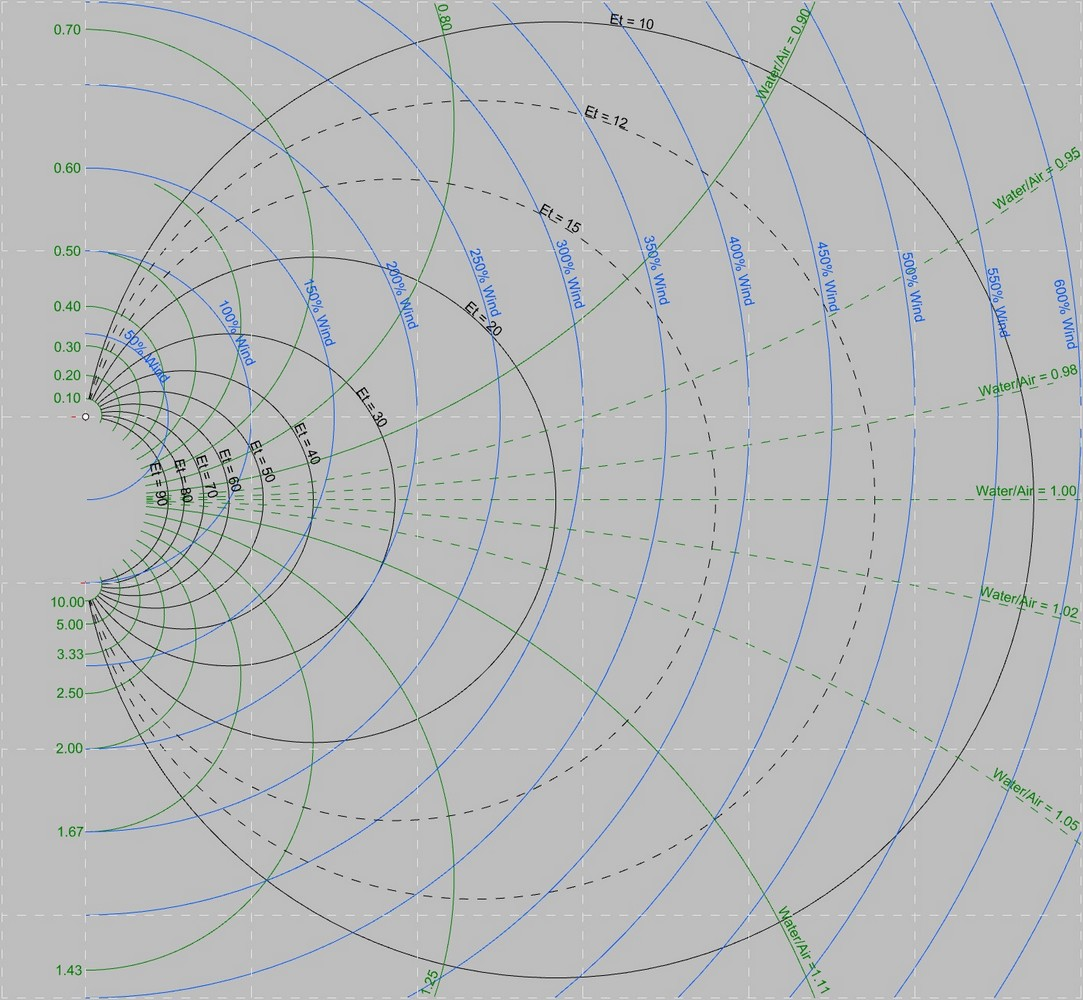
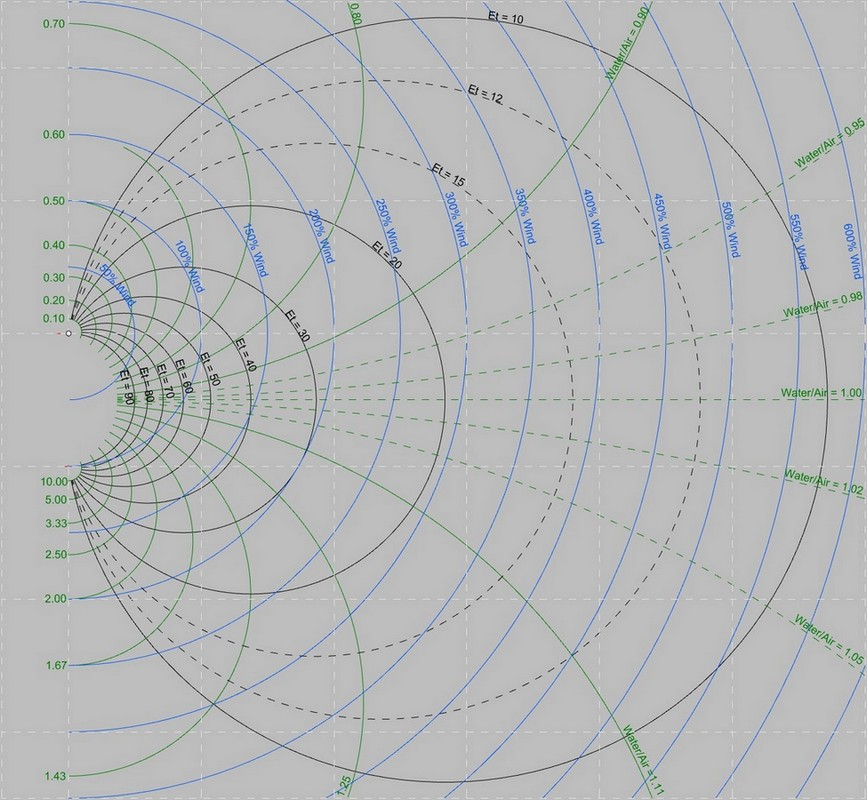
add label  table  image  graph size

Changed region(s): [[0.436, 0.3125, 0.4671, 0.3438]]

diff --git a/model.py b/model.py
@@ -15,13 +15,13 @@ RHO_WATER = 1025  # kg/m3
 # %% plot data
 COLOR_palette = px.colors.qualitative.Plotly
 
-bckgrd_imge_dim = {
-    "width": 700,
-    "height": 636,
-    "zero_x": 31,
-    "zero_y": 265,
-    "source": "assets\\polar_background_small.png",
-}
+# bckgrd_imge_dim = {
+#     "width": 700,
+#     "height": 636,
+#     "zero_x": 31,
+#     "zero_y": 265,
+#     "source": "assets\\polar_background_small.png",
+# }
 
 data_background = {
     "iso_speed": {
@@ -30,19 +30,19 @@ data_background = {
         "opacity": 0.9,
     },
     "iso_eft": {
-        "step": list(range(90, 0, -10)),
+        "step": [90, 80, 70, 60, 50, 40, 30, 20, 15, 12, 10],
         "color": "black",
         "opacity": 0.08,
     },
 }
 
-# bckgrd_imge_dim = {
-#     "width": 1083,
-#     "height": 1000,
-#     "zero_x": 82,
-#     "zero_y": 416,
-#     "source": "assets\\polar_background.jpeg",
-# }
+bckgrd_imge_dim = {
+    "width": 867,
+    "height": 800,
+    "zero_x": 68,
+    "zero_y": 333,
+    "source": "assets\\polar_background.jpeg",
+}
 
 # %%  Functions
 
@@ -118,10 +118,10 @@ def create_iso_eft(dict_param, position_angle_label=30):
     isoeft_label = []
 
     for s in dict_param["step"]:
-        half_s_rad = np.radians(s) / 2
-        r = (wind_speed / 2) / (np.sin(half_s_rad))
+        s_rad = np.radians(s)
+        r = (wind_speed / 2) / (np.sin(s_rad))
         center_x, center_y = centers(0, -wind_speed, r)
-        angle = np.pi - (half_s_rad)
+        angle = np.pi - (s_rad)
 
         x_label = r * np.cos(np.radians(position_angle_label)) + center_x
         y_label = r * np.sin(np.radians(position_angle_label)) + center_y
@@ -156,9 +156,23 @@ def create_iso_eft(dict_param, position_angle_label=30):
     return isoeft, df_label
 
 
-def create_iso_speed(dict_param):
+def create_iso_speed(dict_param, position_angle_label=30):
     isospeed = []
+    isospeed_label = []
     for s in dict_param["step"]:
+        x_label = s * np.cos(np.radians(position_angle_label))
+        y_label = s * np.sin(np.radians(position_angle_label))
+        label_s = {
+            "x": x_label,
+            "y": y_label,
+            "text": f"{s}% wind",
+            "angle": 90 - position_angle_label,
+            "color": dict_param["color"],
+            "opacity": dict_param["opacity"] + 0.1,
+        }
+
+        isospeed_label.append(label_s)
+
         isospeed.append(
             dict(
                 type="path",
@@ -170,7 +184,8 @@ def create_iso_speed(dict_param):
                 layer="below",
             )
         )
-    return isospeed
+    df_label = pd.DataFrame(isospeed_label)
+    return isospeed, df_label
 
 
 def plot_cases(
@@ -179,24 +194,33 @@ def plot_cases(
     draw_iso_speed=True,
     draw_iso_eft=True,
     add_background_image=False,
+    height_size=800,
 ):
     shape_list = []
 
+    # add shapes
     if draw_iso_speed:
-        shape_list.extend(create_iso_speed(data_background["iso_speed"]))
+        shapes_speed, labels_speed = create_iso_speed(
+            data_background["iso_speed"], position_angle_label=10
+        )
+        shape_list.extend(shapes_speed)
 
     if draw_iso_eft:
-        shapes, labels_eft = create_iso_eft(
+        shapes_eft, labels_eft = create_iso_eft(
             data_background["iso_eft"], position_angle_label=-45
         )
-        shape_list.extend(shapes)
+        shape_list.extend(shapes_eft)
 
     title_cases = ", ".join([fk.name for fk in list_of_cases])
+
+    graph_size = bckgrd_imge_dim["height"] if add_background_image else height_size
     fig = go.Figure(
         layout=go.Layout(
             title=go.layout.Title(text=f"Polar for: {title_cases}"),
-            autosize=False,
-            height=bckgrd_imge_dim["height"],
+            autosize=True,
+            plot_bgcolor="rgba(240,240,240,0.7)",
+            height=graph_size,
+            width=graph_size * 1.1,
             xaxis_range=[-5, 550],
             yaxis_range=[-300, 240],
             xaxis=dict(showgrid=False, visible=False),
@@ -226,15 +250,19 @@ def plot_cases(
         )
 
     if add_background_image:
+        fig.update_layout(
+            width=bckgrd_imge_dim["width"],
+            height=bckgrd_imge_dim["height"],
+        )  # to keep square ratio
         fig.add_layout_image(
             dict(
                 source=bckgrd_imge_dim["source"],
                 xref="x",
                 yref="y",
-                x=-bckgrd_imge_dim["zero_x"],
-                y=bckgrd_imge_dim["zero_y"],
-                sizex=bckgrd_imge_dim["width"] - bckgrd_imge_dim["zero_x"],
-                sizey=bckgrd_imge_dim["height"] - 10,  # TODO why -10?
+                x=-bckgrd_imge_dim["zero_x"] * 0.75,
+                y=bckgrd_imge_dim["zero_y"] * 0.75,
+                sizex=bckgrd_imge_dim["width"] * 0.75,
+                sizey=bckgrd_imge_dim["height"] * 0.75,  # TODO why 0.75?
                 sizing="stretch",
                 xanchor="left",
                 yanchor="top",
@@ -244,6 +272,26 @@ def plot_cases(
         )
 
     # add labels
+
+    if draw_iso_speed:
+        for i, row in labels_speed.iterrows():
+            fig.add_annotation(
+                go.layout.Annotation(
+                    x=row["x"],
+                    y=row["y"],
+                    text=row["text"],
+                    hovertext=row["text"],
+                    # textposition="bottom center"
+                    textangle=row["angle"],
+                    # arrowsize=0.3,
+                    showarrow=False,
+                    font=dict(color=row["color"]),
+                    # for color use font dict
+                    opacity=row["opacity"],
+                    xshift=10,
+                    yshift=5,
+                )
+            )
     if draw_iso_eft:
         for i, row in labels_eft.iterrows():
             fig.add_annotation(
@@ -255,7 +303,7 @@ def plot_cases(
                     # textposition="bottom center"
                     textangle=row["angle"],
                     arrowsize=0.3,
-                    # for color use font dict
+                    font=dict(color=row["color"]),
                     opacity=row["opacity"],
                 )
             )
@@ -379,7 +427,7 @@ class FishKite:
         )
         return apparent_water_kt
 
-    def compute_polar(self, nb_value=30):
+    def compute_polar(self, nb_value=50):
         velocity_max_min = self.fluid_velocity_ratio_range()
         velocity_range = np.linspace(
             velocity_max_min["min"], velocity_max_min["max"], nb_value
@@ -414,6 +462,16 @@ class FishKite:
 
         return df_polar
 
+    def perf_table(self):
+        df = self.compute_polar()
+        dict_stats = {
+            "efficiency_tot": self.total_efficiency(),
+            "Max_%TrueWind": df["apparent_watter_pct"].max(),
+            "UpWind_speed": df["y_watter_pct"].max(),
+            "DownWind_speed": df["y_watter_pct"].max(),
+        }
+        return pd.DataFrame(dict_stats, index=[self.name])
+
     def data_to_plot_polar(self):
         vr = self.fluid_velocity_ratio()
         current_apparent_watter_pct = self.apparent_watter(vr) / self.wind_speed * 100
@@ -432,7 +490,7 @@ class FishKite:
         }
 
     def plot(self, draw_ortho_grid=True, add_background_image=False):
-        fig = plot_cases(self, [self], draw_ortho_grid, add_background_image)
+        fig = plot_cases([self], draw_ortho_grid, add_background_image)
         return fig
 
     def add_plot_elements(self, fig, m_color=None, add_legend_name=False):
@@ -505,8 +563,18 @@ class Project:
             detail_str += str(i)
         return detail_str
 
+    def perf_table(self):
+        list_df = [fk.perf_table() for fk in self.lst_fishkite]
+        df = pd.concat(list_df)
+        return df.T.reset_index()
+
     def plot(self, draw_ortho_grid=True, add_background_image=False):
-        fig = plot_cases(self.lst_fishkite, draw_ortho_grid, add_background_image)
+        fig = plot_cases(
+            self.lst_fishkite,
+            draw_ortho_grid,
+            draw_iso_speed=True,
+            add_background_image=add_background_image,
+        )
         return fig
 
 
@@ -547,7 +615,8 @@ if __name__ == "__main__":
         list_of_cases=[fk1, fk2],
         draw_ortho_grid=True,
         draw_iso_speed=False,
-        add_background_image=False,
+        add_background_image=True,
+        height_size=800,
     )
     fig2.show()
     # %%

diff --git a/app.py b/app.py
@@ -16,7 +16,7 @@ import copy
 import pandas as pd
 
 from app_components import *
-from dash import ctx
+from dash import ctx, dash_table
 
 
 # %% Initial set up
@@ -43,6 +43,7 @@ app = dash.Dash(__name__, external_stylesheets=[dbc.themes.BOOTSTRAP])
 server = app.server
 
 fig = proj.plot()
+df_table = proj.perf_table()
 
 
 app.layout = dbc.Container(
@@ -53,7 +54,7 @@ app.layout = dbc.Container(
                     [
                         dcc.Markdown(
                             """
-                ## FishPy      V0.9.3
+                ## FishPy      V0.9.5
                 """
                         )
                     ],
@@ -111,7 +112,12 @@ app.layout = dbc.Container(
                         ),
                         dbc.Collapse(
                             dbc.Card(
-                                dbc.CardBody(dcc.Markdown(id="coordinates_output"))
+                                dbc.CardBody(
+                                    dbc.Spinner(
+                                        html.P(id="my-output"),
+                                        color="primary",
+                                    ),
+                                )
                             ),
                             id="coordinates_collapse",
                             is_open=False,
@@ -123,9 +129,10 @@ app.layout = dbc.Container(
                         #     id="analyze", color="primary", style={"margin": "5px"}),
                         html.Hr(),
                         dcc.Markdown("##### Aerodynamic Performance"),
-                        dbc.Spinner(
-                            html.P(id="my-output"),
-                            color="primary",
+                        dash_table.DataTable(
+                            df_table.to_dict("records"),
+                            [{"name": i, "id": i} for i in df_table.columns],
+                            id="perf_table",
                         ),
                     ],
                     width=3,
@@ -146,9 +153,9 @@ app.layout = dbc.Container(
                 ),
             ]
         ),
-        html.Hr(),
         dcc.Markdown(
             """
+            
         To help the design
         """
         ),
@@ -277,6 +284,7 @@ def fk2_param_to_fk1(n_clicks):
 @app.callback(
     Output("fig1", "figure"),
     Output(component_id="my-output", component_property="children"),
+    Output(component_id="perf_table", component_property="data"),
     inputs={
         "all_inputs": {
             "general": {
@@ -285,6 +293,7 @@ def fk2_param_to_fk1(n_clicks):
                 "bool_backgrdimg": Input("bool_backgrdimg", "on"),
                 "bool_isospeed": Input("bool_isospeed", "on"),
                 "bool_isoeft": Input("bool_isoeft", "on"),
+                "graph_size": Input("slider-graph_size", "value"),
             },
             0: {
                 "bool_fk": Input("boolean_0", "on"),
@@ -365,11 +374,14 @@ def update(all_inputs):
         draw_iso_speed=bool_isospeed,
         draw_iso_eft=bool_isoeft,
         add_background_image=bool_backgrdimg,
+        height_size=c["general"]["graph_size"]["value"],
     )
 
     text_detail = f"Compute for : {proj.detail()}  "
 
-    return fig, text_detail
+    perf_data = proj.perf_table().round(2).to_dict(orient="records")
+
+    return fig, text_detail, perf_data
 
 
 if __name__ == "__main__":

diff --git a/app_components.py b/app_components.py
@@ -6,6 +6,23 @@ import dash_bootstrap_components as dbc
 
 ### Operating things
 operating_slider_components = [
+    html.Div(
+        [
+            html.Label("Graph size:"),
+            dcc.Slider(
+                id=f"slider-graph_size",
+                min=500,
+                max=1000,
+                step=50,
+                value=800,
+                marks={i: f"{i} px" for i in range(500, 1100, 100)},
+                tooltip={
+                    "placement": "bottom",
+                    "always_visible": True,
+                },
+            ),
+        ],
+    ),
     html.Label("Wind speed (knots)"),
     dcc.Slider(
         id=f"slider-wind_speed",
